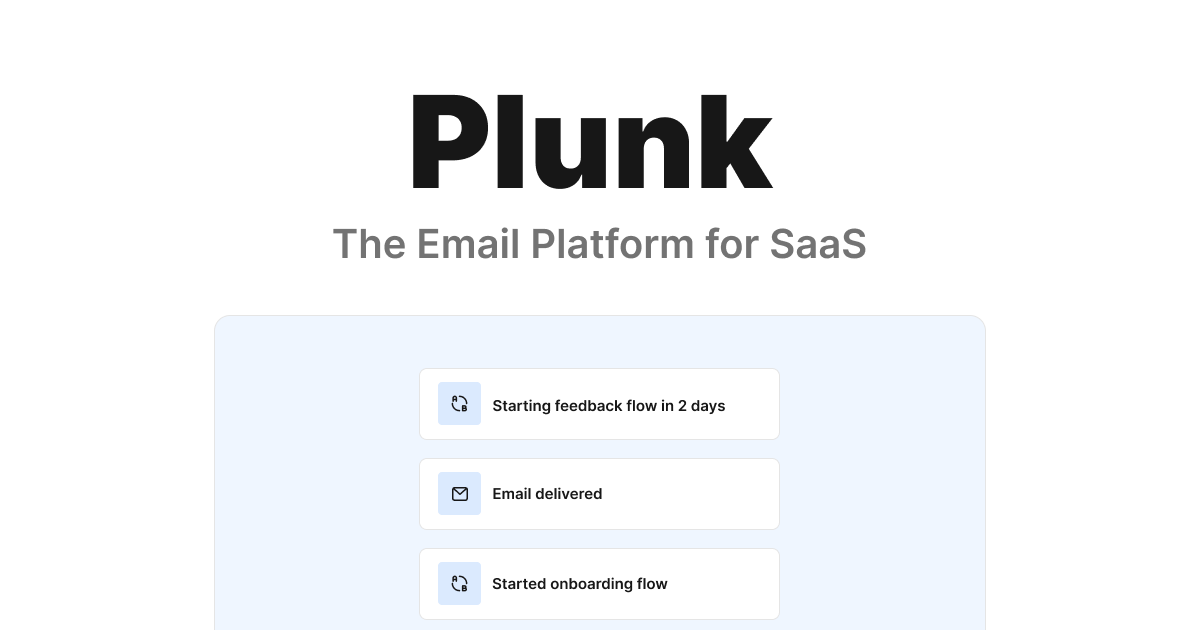
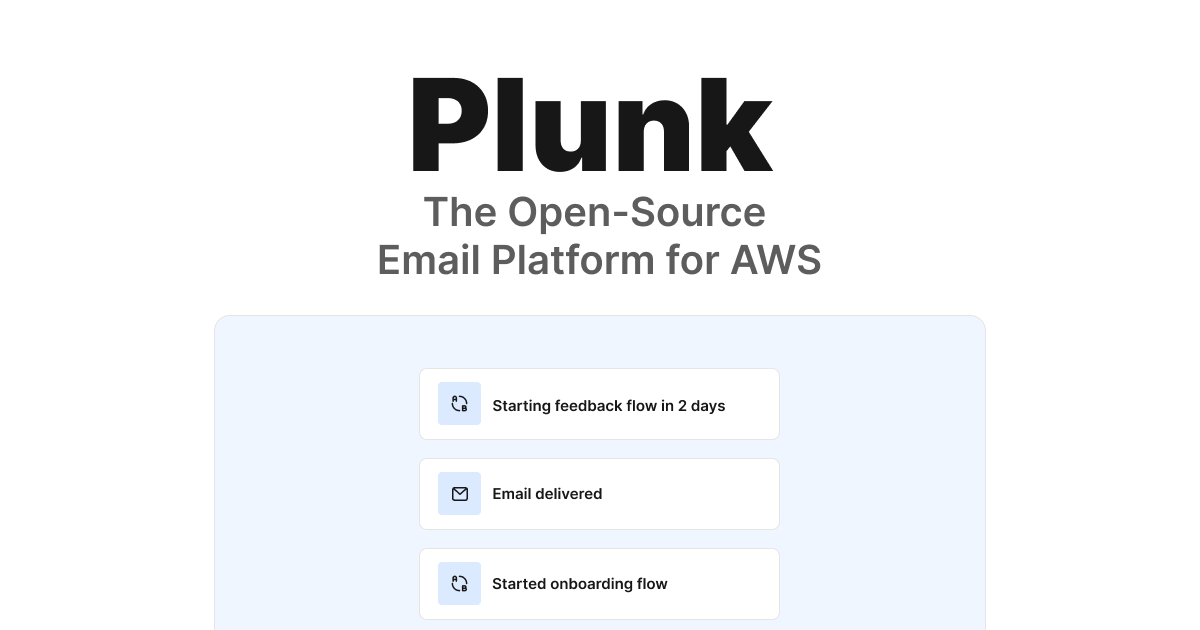
Updated branding for Open-Source version

Changed region(s): [[0.2775, 0.1206, 0.74, 0.4524], [0.5858, 0.1206, 0.6167, 0.1508]]

diff --git a/packages/dashboard/src/pages/_app.tsx b/packages/dashboard/src/pages/_app.tsx
@@ -83,7 +83,7 @@ export default function WithProviders(props: AppProps) {
 					}
 					title={"Plunk Dashboard | The Open-Source Email Platform for AWS"}
 					description={
-						"Plunk is the open-source, developer-friendly email platform for AWS that brings together marketing, transactional and broadcast emails into one single, complete solution"
+						"Plunk is the open-source, affordable email platform for AWS that brings together marketing, transactional and broadcast emails into one single, complete solution"
 					}
 					twitter={{
 						cardType: "summary_large_image",
